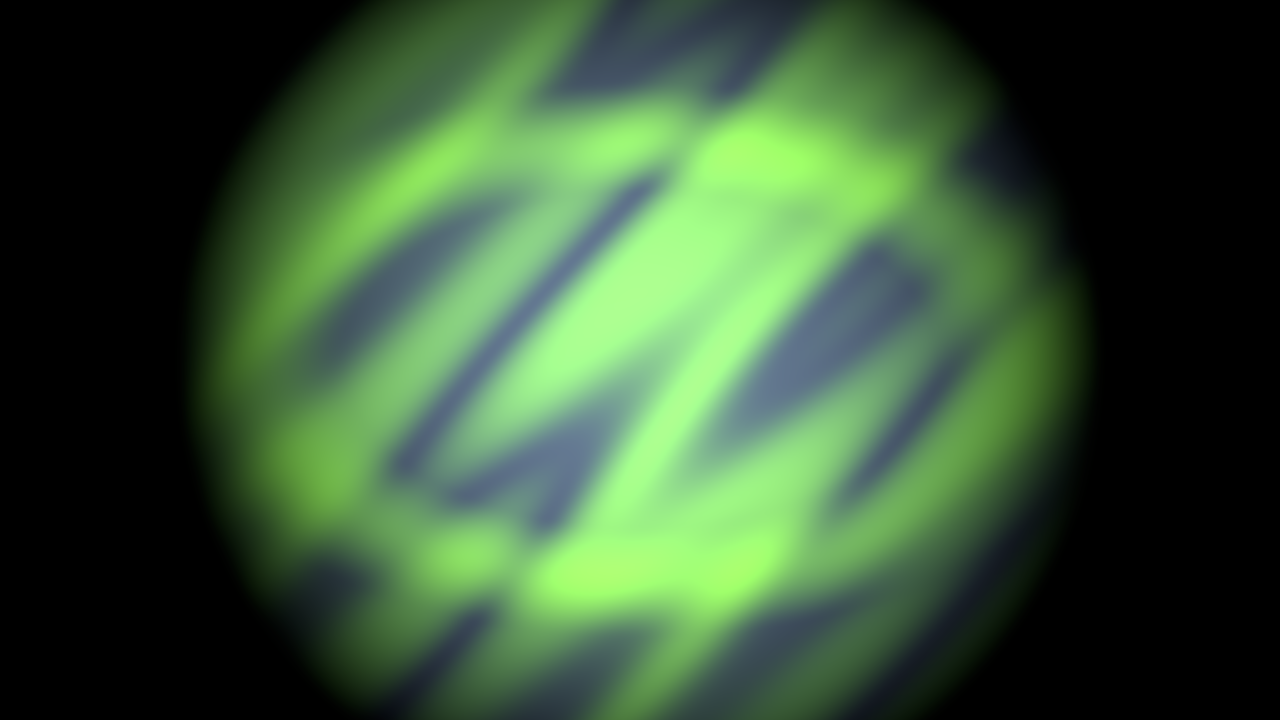
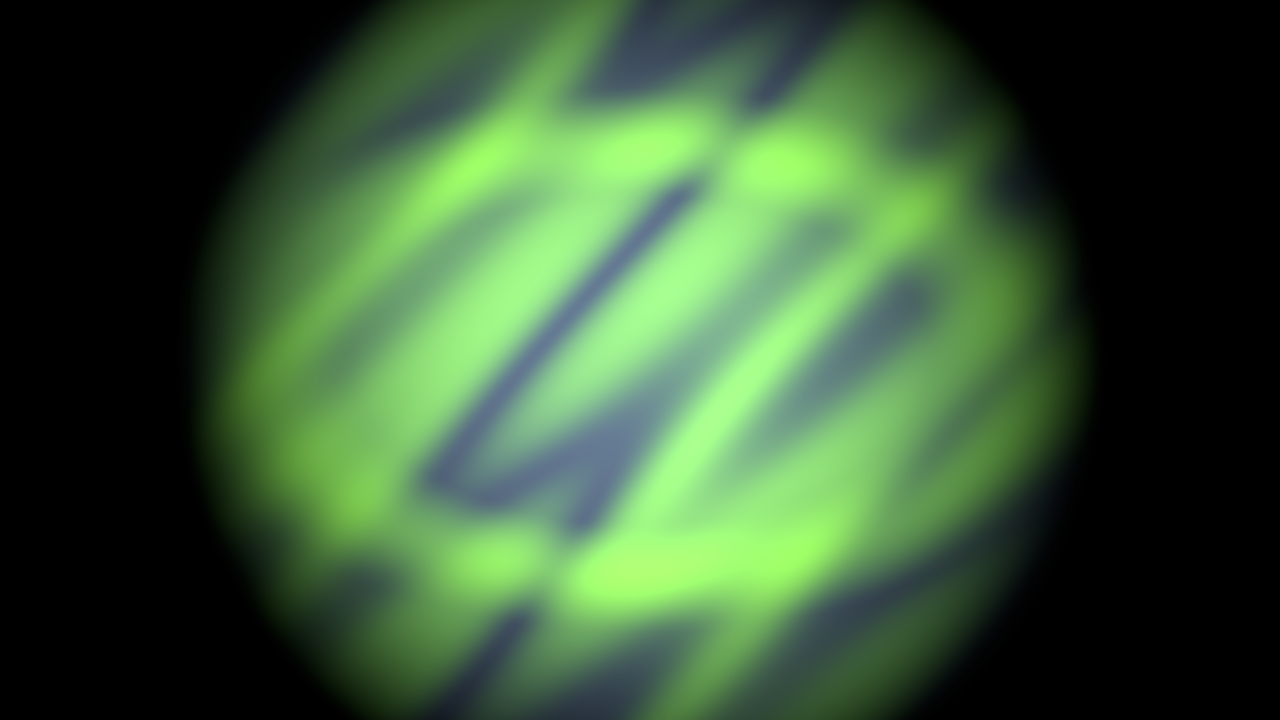
Make the beginner (type 1) and creative-code (type 4) showcases distinct
The two shader tutorials shared the same PulseField shader, so first-project
and shader-edit produced near-identical green heroes (same average-hash) — a
visual-distinctiveness gap for ADR-0037 site media.

Redesign the live-shader-edit tutorial's shader as AuroraWeave: a warm
(magenta/ember) hex-weave interference field — three gratings at 0/60/120 deg
multiplied into a woven moire — structurally and chromatically distinct from
first-project's cool cyan PulseField rings. Rename is self-contained to the
tutorial (SHADER_OP/filename/friction-log); the edit/break/recover anchor lines
are preserved so the STEP 2/3 mutations still apply.

Re-captured all five heroes from one signed-build run (/Applications/vivid.app,
5/5 PASS). first-project and shader-edit now read as different pieces
(green rings vs magenta woven lattice); manifest.json updated.

Claude-Session: https://claude.ai/code/session_01QB6eSNJE55ru3g4vsL77GT

Changed region(s): [[0.1875, 0.0, 0.8438, 1.0]]

diff --git a/examples/tutorials/live-shader-edit/build.py b/examples/tutorials/live-shader-edit/build.py
@@ -33,8 +33,8 @@ sys.path.insert(0, str(DEMOS))
 from vivid_demo import Vivid, call_optional, find, require_control_server  # noqa: E402
 
 PROJECT = HERE / "project"
-SHADER_OP = "PulseField"
-SHADER_NAME = "pulse_field.wgsl"
+SHADER_OP = "AuroraWeave"
+SHADER_NAME = "aurora_weave.wgsl"
 SHADER_PATH = PROJECT / "shaders" / SHADER_NAME
 PROOF_JSON = PROJECT / "live-edit-proof.json"
 FRICTION_LOG = PROJECT / "FRICTION-LOG.md"
@@ -44,27 +44,28 @@ BROKEN_PNG = PROJECT / "live-edit-broken.png"
 RECOVERED_PNG = PROJECT / "live-edit-recovered.png"
 
 # A self-animating (u.time) project-local shader. No audio needed — the field moves on its own, so
-# the tutorial can focus purely on the code->reload->pixels loop.
+# the tutorial can focus purely on the code->reload->pixels loop. It is a WARM hex-weave interference
+# field — deliberately distinct from the beginner project's cool PulseField rings, so the two
+# creative-coding showcases read as different pieces (ADR-0037 visual distinctiveness).
 BASE_SHADER = """/*{
   "version": 1,
-  "name": "PulseField",
-  "summary": "Project-local pulse field for the live-shader-edit tutorial.",
-  "keywords": ["project", "tutorial", "generator", "pulse"],
+  "name": "AuroraWeave",
+  "summary": "Project-local woven interference field for the live-shader-edit tutorial.",
+  "keywords": ["project", "tutorial", "generator", "weave"],
   "inputs": [],
   "params": [
     {"name": "warp", "type": "float", "default": 0.35, "min": 0, "max": 1,
      "semantic_intent": "domain warp amount"},
-    {"name": "hue", "type": "float", "default": 0.58, "min": 0, "max": 1,
+    {"name": "hue", "type": "float", "default": 0.07, "min": 0, "max": 1,
      "semantic_tag": "phase_01", "semantic_intent": "color hue"},
-    {"name": "density", "type": "float", "default": 0.42, "min": 0, "max": 1,
-     "semantic_intent": "pattern density"},
+    {"name": "density", "type": "float", "default": 0.5, "min": 0, "max": 1,
+     "semantic_intent": "weave density"},
     {"name": "glow", "type": "float", "default": 0.55, "min": 0, "max": 1,
      "semantic_intent": "brightness"}
   ]
 }*/
-fn ring(uv: vec2f, center: vec2f, radius: f32, width: f32) -> f32 {
-    let d = abs(distance(uv, center) - radius);
-    return 1.0 - smoothstep(0.0, width, d);
+fn grating(p: vec2f, dir: vec2f, freq: f32, phase: f32) -> f32 {
+    return 0.5 + 0.5 * sin(dot(p, dir) * freq + phase);
 }
 
 @fragment fn fs_main(inp: FullscreenOutput) -> @location(0) vec4f {
@@ -72,26 +73,33 @@ fn ring(uv: vec2f, center: vec2f, radius: f32, width: f32) -> f32 {
     var p = uv * 2.0 - vec2f(1.0);
     p.x = p.x * (u.res.x / max(1.0, u.res.y));
 
-    let twist = sin((p.x + p.y) * (3.0 + u.density * 10.0) + u.time * 1.8);
-    let q = p + vec2f(cos(p.y * 4.0 + u.time), sin(p.x * 4.0 - u.time)) * (0.04 + u.warp * 0.18);
+    // slowly rotating domain warp so the woven lattice breathes
+    let sw = sin(u.time * 0.4);
+    let cw = cos(u.time * 0.4);
+    let pr = vec2f(p.x * cw - p.y * sw, p.x * sw + p.y * cw);
+    let q = pr + vec2f(sin(pr.y * 3.0 + u.time), cos(pr.x * 3.0 - u.time)) * (0.05 + u.warp * 0.22);
 
-    let beam = 0.5 + 0.5 * sin((q.x * 5.0 + q.y * 2.0) + twist * 1.4 + u.time * 2.0);
-    let pulse = ring(uv, vec2f(0.5), 0.16 + u.density * 0.24, 0.08);
-    let vignette = smoothstep(1.3, 0.15, length(p));
+    // three gratings at 0/60/120 deg multiply into a woven hex moire (sharp thread intersections)
+    let freq = 6.0 + u.density * 22.0;
+    let g0 = grating(q, vec2f(1.0, 0.0), freq, u.time * 1.2);
+    let g1 = grating(q, vec2f(-0.5, 0.8660254), freq, -u.time * 1.0);
+    let g2 = grating(q, vec2f(-0.5, -0.8660254), freq, u.time * 0.8);
+    let threads = pow(g0 * g1 * g2, 0.6);
+    let vignette = smoothstep(1.35, 0.1, length(p));
 
     let a = 0.5 + 0.5 * cos(vec3f(0.0, 2.1, 4.2) + u.hue * 6.2831853);
     let b = vec3f(0.08, 0.12, 0.18);
-    var color = mix(b, a, beam * 0.65 + pulse * 0.55);
+    var color = mix(b, a, threads * 0.9 + 0.1);
     color = color * vignette * (0.65 + u.glow * 1.2);
     return vec4f(color, 1.0);
 }
 """
 
-# STEP 2 edit — a visible creative change: shift the base tint and push brightness up.
+# STEP 2 edit — a visible creative change: shift the base tint to a warm ember and push brightness up.
 EDIT_MARKER = "// live-shader-edit tutorial mutation"
 BRIGHT_EDIT = BASE_SHADER.replace(
     "let b = vec3f(0.08, 0.12, 0.18);",
-    "let b = vec3f(0.02, 0.18, 0.14);  " + EDIT_MARKER,
+    "let b = vec3f(0.14, 0.05, 0.02);  " + EDIT_MARKER,
 ).replace(
     "color = color * vignette * (0.65 + u.glow * 1.2);",
     "color = color * vignette * (1.05 + u.glow * 1.9);",
@@ -117,7 +125,7 @@ def visual_op_issues(report: dict | None, op: str) -> list[dict]:
 
 
 def catalog_source(v: Vivid, op: str) -> dict | None:
-    """Ask the operator catalog what a beginner sees: does PulseField reveal its backing file?"""
+    """Ask the operator catalog what a beginner sees: does the shader op reveal its backing file?"""
     cat = call_optional(v, "find_operators", query=op, domain="visual")
     if not cat:
         return None
@@ -247,7 +255,7 @@ def write_friction_log(proof: dict) -> None:
         f"  `source` for shader-backed ops (here: `{(cat.get('source') or {}).get('path')}`),\n"
         "  and `list_shaders` remains the authoritative name->path->error row. Before ADR-0040 tier 2\n"
         "  the catalog exposed no backing file, so a beginner had to know to call `list_shaders`.\n"
-        "- Live edit: editing `shaders/pulse_field.wgsl` + `reload_project_files` re-registers the\n"
+        "- Live edit: editing `shaders/aurora_weave.wgsl` + `reload_project_files` re-registers the\n"
         f"  project shader tier while `{SHADER_OP}` keeps its node identity"
         f" (preserved={proof.get('node_identity_preserved')}).\n"
         "- Failure/recovery mode covered (Fulfillment Gate #8): a deliberate WGSL compile error is\n"
